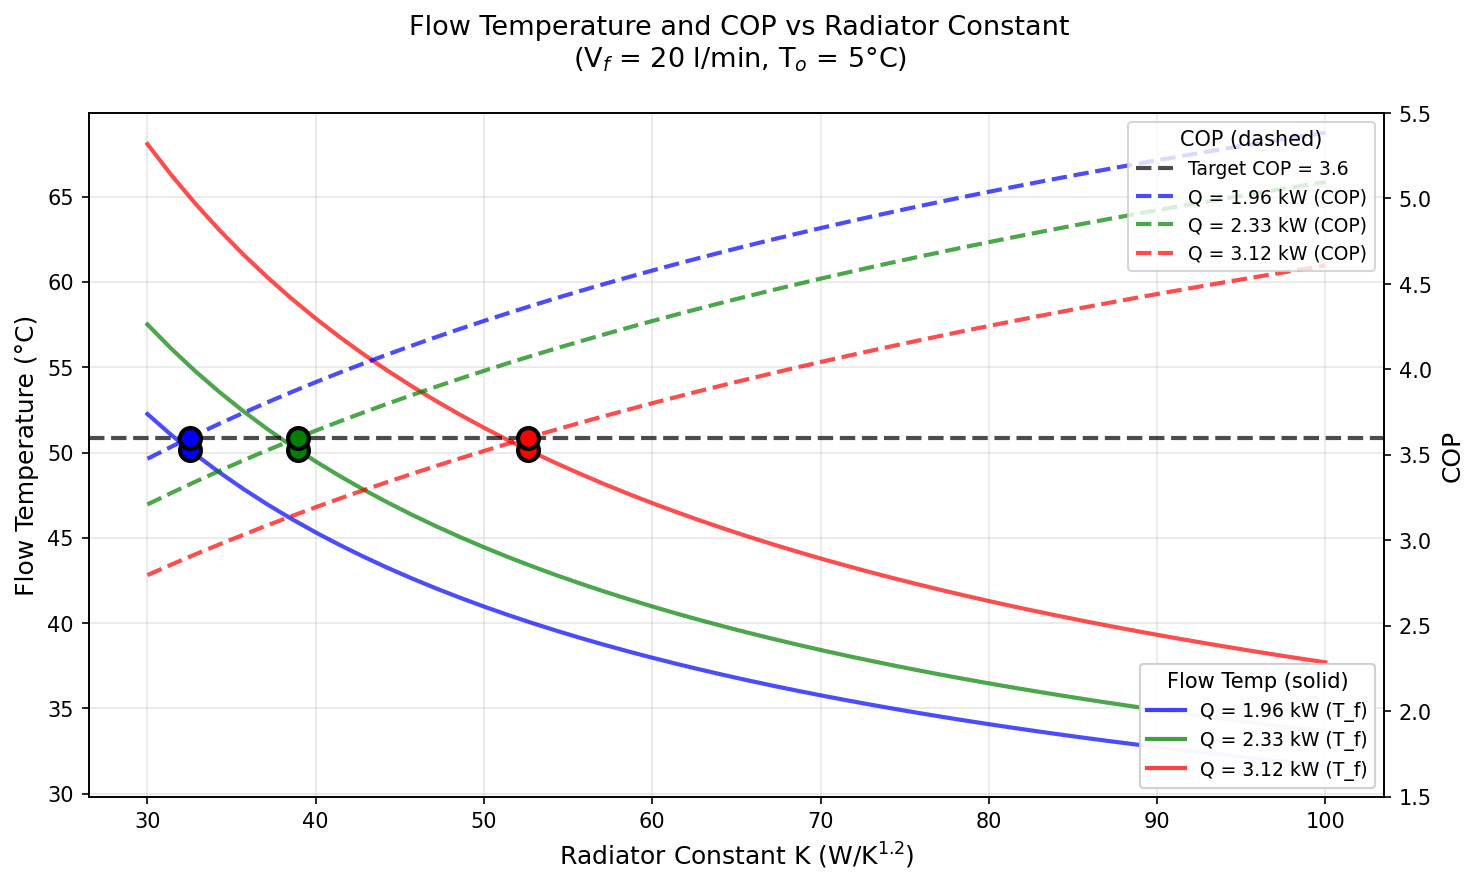
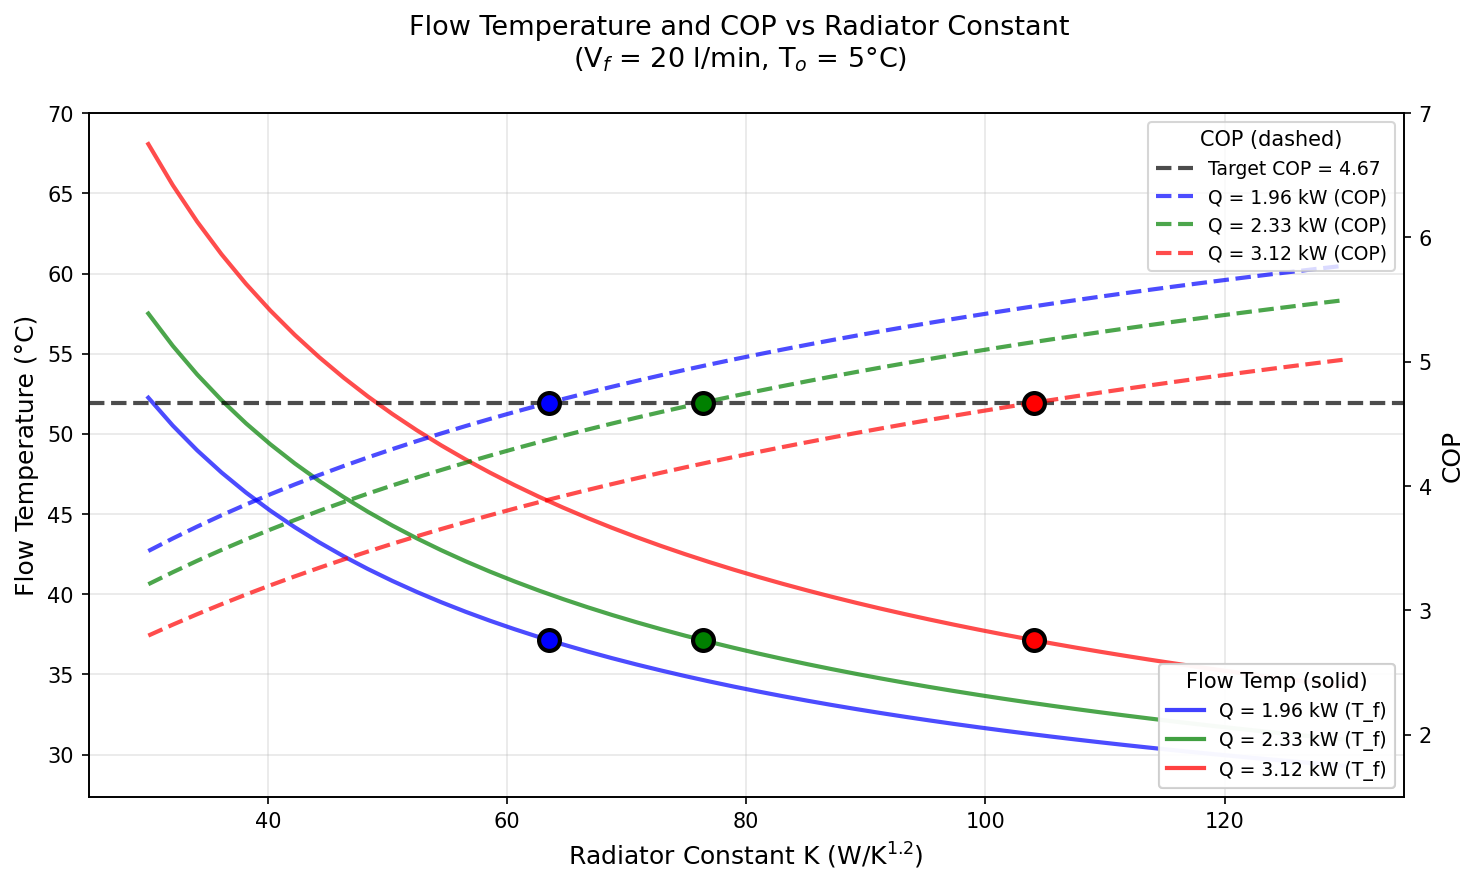
Updated numbers with larger spark gap

diff --git a/src/heat_pump_cost/radiator_analysis.py b/src/heat_pump_cost/radiator_analysis.py
@@ -183,9 +183,9 @@ def plot_performance_vs_power(k_rad=K_CURRENT, vf=VF_FIXED,
     color2 = 'tab:green'
     ax2.set_ylabel('COP', fontsize=12, color=color2)
     line2 = ax2.plot(powers_kw, cops, color=color2, linewidth=2, label='Heat Pump COP')
-    line3 = ax2.axhline(y=3.6, color='red', linestyle='--', linewidth=2, label='Break-even COP = 3.6')
+    line3 = ax2.axhline(y=4.67, color='red', linestyle='--', linewidth=2, label='Break-even COP = 4.67')
     ax2.tick_params(axis='y', labelcolor=color2)
-    ax2.set_ylim([1.5, 6.0])
+    ax2.set_ylim([1.5, 6.5])
     
     # Mark the three key power levels on COP axis
     for qk in key_powers:
@@ -242,11 +242,11 @@ def plot_performance_vs_k(power_levels=[1960, 2335, 3120], vf=VF_FIXED,
     ax2.xaxis.set_ticks_position('top')
     ax2.xaxis.set_label_position('top')
     ax2.set_ylabel('COP', fontsize=12, color='black')
-    ax2.set_ylim([1.5, 5.5])
+    ax2.set_ylim([1.5, 7.0])
     
     # Plot break-even line
-    ax2.axhline(y=3.6, color='black', linestyle='--', linewidth=2, 
-                label='Target COP = 3.6', alpha=0.7)
+    ax2.axhline(y=4.67, color='black', linestyle='--', linewidth=2, 
+                label='Target COP = 4.67', alpha=0.7)
     
     lines_temp = []
     lines_cop = []
@@ -281,21 +281,21 @@ def plot_performance_vs_k(power_levels=[1960, 2335, 3120], vf=VF_FIXED,
         lines_temp.extend(line_t)
         lines_cop.extend(line_c)
         
-        # Find intersection with COP = 3.6
+        # Find intersection with COP = 4.67
         valid_mask = ~np.isnan(cops)
         if np.any(valid_mask):
             valid_k = k_values[valid_mask]
             valid_cop = cops[valid_mask]
             
-            # Find where COP crosses 3.6
-            if np.any(valid_cop > 3.6):
-                # Interpolate to find exact K where COP = 3.6
-                idx = np.where(valid_cop > 3.6)[0][0]
+            # Find where COP crosses 4.67
+            if np.any(valid_cop > 4.67):
+                # Interpolate to find exact K where COP = 4.67
+                idx = np.where(valid_cop > 4.67)[0][0]
                 if idx > 0:
                     # Linear interpolation
                     k1, k2 = valid_k[idx-1], valid_k[idx]
                     cop1, cop2 = valid_cop[idx-1], valid_cop[idx]
-                    k_target = k1 + (3.6 - cop1) * (k2 - k1) / (cop2 - cop1)
+                    k_target = k1 + (4.67 - cop1) * (k2 - k1) / (cop2 - cop1)
                     k_required[q_target] = k_target
                     
                     # Mark on both plots
@@ -303,7 +303,7 @@ def plot_performance_vs_k(power_levels=[1960, 2335, 3120], vf=VF_FIXED,
                     if tf_target is not None:
                         ax1.plot(k_target, tf_target, 'o', color=colors[i], 
                                markersize=10, markeredgecolor='black', markeredgewidth=2)
-                        ax2.plot(k_target, 3.6, 'o', color=colors[i], 
+                        ax2.plot(k_target, 4.67, 'o', color=colors[i], 
                                markersize=10, markeredgecolor='black', markeredgewidth=2)
     
     # Title
@@ -335,13 +335,13 @@ def main():
     # Plot 2: Performance vs K for three power levels
     print("\n2. Generating performance vs K plot...")
     power_levels = [1960, 2335, 3120]  # W
-    fig2, _, k_required = plot_performance_vs_k(power_levels=power_levels, k_range=(30, 100))
+    fig2, _, k_required = plot_performance_vs_k(power_levels=power_levels, k_range=(30, 130))
     fig2.savefig('assets/performance_vs_k.png', dpi=150, bbox_inches='tight')
     print("   Saved: assets/performance_vs_k.png")
     
     # Print required K values
     print("\n" + "=" * 60)
-    print("REQUIRED RADIATOR CONSTANTS FOR COP = 3.6")
+    print("REQUIRED RADIATOR CONSTANTS FOR COP = 4.67")
     print("=" * 60)
     print(f"Current K: {K_CURRENT:.1f} W/K^{N_RAD}")
     print()
@@ -367,7 +367,7 @@ def main():
         print("=" * 60)
         print("RECOMMENDATION FOR CONCLUSION:")
         print("=" * 60)
-        print(f"To handle peak load of 3.12 kW at COP = 3.6:")
+        print(f"To handle peak load of 3.12 kW at COP = 4.67:")
         print(f"  Required K ≈ {k_peak:.0f} W/K^{N_RAD}")
         print(f"  This is approximately {factor_peak:.1f}× current capacity")
         print("=" * 60)

diff --git a/operations-static.md b/operations-static.md
@@ -1,12 +1,12 @@
 # Accepting the Need for Radiator Upgrades with a Heat Pump Installation 
 
-Motivated by the desire to transition away from heating with gas and reduce CO2 emissions I have been reading up on heat pumps and their installation. Various sources such as ["So You're Thinking About a Heat Pump: The UK Homeowner's Guide to Heat Pumps"](https://www.amazon.co.uk/Youre-Thinking-About-Heat-Pump/dp/B0GK7H511K/) or [The Ultimate Guide to Heat Pumps: Britain's best installers and experts tell you exactly what to watch for and what to ask](https://www.amazon.co.uk/Ultimate-Guide-Heat-Pumps-installers/dp/B0FNMNVC4Q) recommend radiator upgrades which do unfortunately increase installation costs. Initially, I hoped to avoid such an upgrade by using a heat pump in tandem with our log burner. In order to be able to make a more informed decision, however, I have carried out a simple analysis using steady-state thermal models. The outcome is nuanced: current radiators are sufficient for economically viable operation with supplemental wood heating, but upgrades become necessary to achieve complete fossil fuel independence. The physical relationship between radiator capacity, flow temperature, and heat pump efficiency creates a trade-off between capital investment and operational flexibility. Note, that this story focuses on order-of-magnitude estimates rather than precise scientific calculations.
+Motivated by the desire to transition away from heating with gas and reduce CO2 emissions I have been reading up on heat pumps and their installation. Various sources such as ["So You're Thinking About a Heat Pump: The UK Homeowner's Guide to Heat Pumps"](https://www.amazon.co.uk/Youre-Thinking-About-Heat-Pump/dp/B0GK7H511K/) or [The Ultimate Guide to Heat Pumps: Britain's best installers and experts tell you exactly what to watch for and what to ask](https://www.amazon.co.uk/Ultimate-Guide-Heat-Pumps-installers/dp/B0FNMNVC4Q) recommend radiator upgrades which do unfortunately increase installation costs. Initially, I hoped to avoid such an upgrade by using a heat pump in tandem with our log burner. In order to be able to make a more informed decision, however, I have carried out a simple analysis using steady-state thermal models. The outcome is perhaps unsurprising: at current energy prices, radiator upgrades appear to be necessary for economically viable heat pump operation in all scenarios, suggesting that the primary motivation for switching would be decarbonisation rather than cost saving. The physical relationship between radiator capacity, flow temperature, and heat pump efficiency creates a trade-off between capital investment and operational flexibility. Note, that this story focuses on order-of-magnitude estimates rather than precise scientific calculations.
 
 # Static Analysis and Heat Loss
 
 The starting point of this analysis is the state of our property after the efforts detailed in [Improving the Thermal Performance of UK 1930s Semi Detached Houses](https://peter-wurmsdobler.medium.com/improving-the-thermal-performance-of-uk-1930s-semi-detached-houses-6f64c6514565). Therein the heat transfer model derived from first principles estimates the specific heat loss, or Heat Transfer Coefficient (HTC), to be **244 W/K**. In order to work out a representative heat loss of the building, I chose a cold winter month in Cambridge, UK: the bleak January 2026 with an average outdoor temperature T_o = 5°C; the indoor temperature was kept on average at T_i = 19°C (approximately 20°C downstairs, about 18°C upstairs). The resulting temperature difference is ΔT = 14K and yields an heat loss of Q_l = 244 × 14 = **3.42 kW**.
 
-To validate this estimate, I looked up our energy consumption for January 2026: over that period electricity consumption was 263.75kWh (8.5kWh/day on average or 0.35kW continuous power), and gas utilisation was 1,924.91kWh (62.1 kWh/day on average or 2.59kW continuous power); the latter includes space heating and domestic hot water (DHC). It is assumed that energy for DHC stays mostly the same throughout the year and is responsible for the gas use in summer; for instance, in summer 2025 gas usage was about 12.5 kWh per day on average. As mentioned before, we have been using a log burner as supplemental heat source, providing approximately 3 kW output for 3 hours daily which contributes 9 kWh/day as heat (0.375 kW average power). 
+To validate this estimate, I looked up our energy consumption for January 2026: over that period electricity consumption was 263.75kWh (8.5kWh/day on average or 0.35kW continuous power), and gas utilisation was 1,924.91kWh (62.1 kWh/day on average or 2.59kW continuous power); the latter includes space heating and domestic hot water (DHC). It is assumed that energy for DHC stays mostly the same throughout the year and is responsible for the gas use in summer; for instance, in summer 2025 gas usage was about 12.5 kWh per day on average. As mentioned before, we have been using a log burner as supplemental heat source, providing approximately 3 kW output for 3 hours daily which contributes 9 kWh/day as heat (0.375 kW average power). Over the heating period we are using about 1m^3 of locally source hard wood for £150, which results in about £1/day.
 
 After subtracting the estimated DHC portion (12.5 kWh/day) from total gas consumption (62.1 kWh/day), the remaining 49.6 kWh/day of gas provides 47.12 kWh/day of actual heat to the radiators at 95% boiler efficiency(^1), i.e. 1.96 kW average power. Since most of electricity is eventually dissipated as heat, e.g. from appliances, it will add about 0.3 kW as a heating equivalent. All combined, the total average heating power is 2.635 kW (radiators 1.96 kW + log burner 0.375 kW + appliances 0.3 kW), which is 77% of the estimated heat loss from the thermal model (3.42 kW). This discrepancy is a bit more than I expected but also reasonable, considering unaccounted solar gain and internal heat gains from occupants, as well as the fact that not all rooms are maintained at 19°C continuously (heating off from 10pm to 5am, and entrance hall more like 15°C). 
 
@@ -53,23 +53,23 @@ The countour plot shows well that for a given radiator constant K and flow tempe
 Suppose we set the flow rate at 20l/min for the rest of analysis. Then the heat delivered becomes a function of the flow temperature, and so does the COP. It is perhaps revealing to show the required flow temperature T_f as a function of heat delivered P_r in our current setup (K = 35.9 W/K^1.2), then also show the achievable COP for that power, bearing in mind that the heat pump needs to run at about 5°C above the radiator flow temperature since heat needs to be transferred from the internal heat pump circuit to the radiator circuit. Three scenarios detailed below demonstrate the issue.
 
 ![Performance vs Power](assets/performance_vs_power.png)
-*Figure: For the current radiator constant K = 35.9 W/K^1.2, the flow temperature (left axis, blue) and the expected COP (right axis, green) plotted over heat power delivered. The red dashed line shows break-even COP = 3.6. The three marked points show: 1.96 kW with log burner (COP = 3.75, above break-even), 2.33 kW without log burner (COP = 3.48, slightly below), and 3.12 kW at peak condition (COP = 3.04, significantly below).*
+*Figure: For the current radiator constant K = 35.9 W/K^1.2, the flow temperature (left axis, blue) and the expected COP (right axis, green) plotted over heat power delivered. The red dashed line shows break-even COP = 4.67 (spark gap at January 2026 prices). The three marked points show: 1.96 kW with log burner (COP = 3.75, below break-even), 2.33 kW without log burner (COP = 3.48, further below), and 3.12 kW at peak condition (COP = 3.04, well below).*
 
 ### Scenario 1 Heat Pump With Log Burner
 
-If the gas boiler is replaced with a heat pump whilst continuing to use the log burner for supplemental heat, the heat balance remains with radiators delivering Q_r = 1.96 kW, log burner providing Q_b = 0.375 kW, appliances contributing Q_a = 0.3 kW, and total heat Q_l = 2.635 kW (including internal gains). High flow operation optimised for the heat pump at 20 l/min requires a flow temperature of 48°C with return temperature ~46°C (ΔT ≈ 1.4K), delivering 1.96 kW heating power. The estimated COP is 3.75 (at T_o=5°C, T_f=48°C), requiring electrical input of ~0.52 kW for daily electricity consumption of 12.5 kWh and daily cost of £3.13 at 25p/kWh. 
+If the gas boiler is replaced with a heat pump whilst continuing to use the log burner for supplemental heat, the heat balance remains with radiators delivering Q_r = 1.96 kW, log burner providing Q_b = 0.375 kW, appliances contributing Q_a = 0.3 kW, and total heat Q_l = 2.635 kW (including internal gains). High flow operation optimised for the heat pump at 20 l/min requires a flow temperature of 48°C with return temperature ~46°C (ΔT ≈ 1.4K), delivering 1.96 kW heating power. The estimated COP is 3.75 (at T_o=5°C, T_f=48°C), requiring electrical input of ~0.52 kW for daily electricity consumption of 12.5 kWh and daily electricity cost of £3.47 at 27.69p/kWh. Adding the log burner wood cost of £1.00/day gives a total daily cost of £4.47.
 
-With the log burner continuing to provide supplemental heat and appliances contributing internal gains, the heat pump operates well above the break-even threshold with comfortable 48°C flow temperature. Daily operating cost (£3.13) is 10% lower than gas (£3.47), making this scenario economically attractive whilst achieving fossil fuel independence. The COP of 3.75 is comfortably above the spark gap of 3.6.
+For comparison, gas for space heating (49.6 kWh/day at 5.93p/kWh) costs £2.94/day; including the log burner at £1.00/day brings the current total to £3.94/day. The heat pump scenario therefore costs £0.53/day more, approximately 13% more expensive than the current gas-plus-log-burner setup. The COP of 3.75 falls below the spark gap of 4.67, indicating that at January 2026 energy prices the heat pump with log burner does not offer an economic advantage over gas, even though it would achieve fossil fuel independence for space heating.
 
 ### Scenario 2 Heat Pump Without Log Burner
 
 Without the log burner, the heat pump must provide the full heating requirement. Based on the heat balance equation (Q_r + Q_b + Q_a = Q_l), removing the log burner means that the total heat delivered Q_l = 1.96 + 0.375 + 0.3 = 2.635 kW (actual measured, including appliance gains) must now come from radiators and appliances, with Q_r = 2.335 kW required from the heat pump. 
 
-Heat pump operation at maximum flow (20 l/min) requires a flow temperature of 52°C with return temperature ~51°C (ΔT ≈ 1.7K) to deliver 2.335 kW heating power. The estimated COP is 3.48 (at T_o=5°C, T_f=52°C), requiring electrical input of ~0.67 kW for daily electricity consumption of 16.1 kWh and daily cost of £4.03 at 25p/kWh. The operating cost is thus 16% higher than the gas+log burner configuration (£3.47/day), and the COP of 3.48 falls slightly below the break-even threshold of 3.6.
+Heat pump operation at maximum flow (20 l/min) requires a flow temperature of 52°C with return temperature ~51°C (ΔT ≈ 1.7K) to deliver 2.335 kW heating power. The estimated COP is 3.48 (at T_o=5°C, T_f=52°C), requiring electrical input of ~0.67 kW for daily electricity consumption of 16.1 kWh and daily cost of £4.46 at 27.69p/kWh. The operating cost is thus 13% higher than the current gas-plus-log-burner baseline (£3.94/day), and the COP of 3.48 falls below the break-even threshold of 4.67.
 
 ### Scenario 3 Heat Pump Without Log Burner at Peak Condition
 
-The constraint is exacerbated during peak conditions. For a conservative design representing the theoretical full load during the coldest conditions, appliances contribute Q_a = 0.3 kW, leaving the heat pump to deliver 3.42 - 0.3 = 3.12 kW. At maximum flow (20 l/min), this requires a flow temperature of ~61°C with COP dropping to 3.04 and daily cost of £6.16. This worst-case scenario confirms the need for radiator upgrades: attempting to deliver peak heating loads with insufficient radiator capacity forces operation at 61°C flow temperature, pushing the COP below the break-even threshold of 3.6.
+The constraint is exacerbated during peak conditions. For a conservative design representing the theoretical full load during the coldest conditions, appliances contribute Q_a = 0.3 kW, leaving the heat pump to deliver 3.42 - 0.3 = 3.12 kW. At maximum flow (20 l/min), this requires a flow temperature of ~61°C with COP dropping to 3.04 and daily cost of £6.82 at 27.69p/kWh (24.6 kWh/day). This worst-case scenario underlines the case for radiator upgrades: attempting to deliver peak heating loads with insufficient radiator capacity requires operation at 61°C flow temperature, pushing the COP well below the break-even threshold of 4.67.
 
 
 ## Adjusting the Radiator Constant
@@ -77,18 +77,18 @@ The constraint is exacerbated during peak conditions. For a conservative design 
 At this point it is clear that radiators need to be upgraded, i.e. the constant K needs to be higher, but to what extent? To this end, let's work out the flow temperature and the expected COP plotted over a variable radiator constant K, but for various heating power: the base load with log burner (1.96kW), one without log burner (2.335 kW) and the peak condition (3.12 kW). The intersection with the minimum COP to break even should reveal the required K for each case. (Note, heat pump temperature needs to be 5°C above the radiator flow temperature).
 
 ![Performance vs K](assets/performance_vs_k.png)
-*Figure: For three heating power levels, the flow temperature (left axis, solid lines) and the expected COP (right axis, dashed lines) plotted over radiator constant K. The circles mark where COP reaches 3.6 (break-even threshold). Current K = 35.9 W/K^1.2 is already sufficient for 1.96 kW (blue), requires modest upgrade to 38.5 for 2.33 kW (green), and needs upgrade to 52 for 3.12 kW (red).*
+*Figure: For three heating power levels, the flow temperature (left axis, solid lines) and the expected COP (right axis, dashed lines) plotted over radiator constant K. The circles mark where COP reaches 4.67 (break-even threshold at January 2026 prices). To achieve break-even, K must be upgraded to 64 for 1.96 kW (blue, 1.8× current), to 76 for 2.33 kW (green, 2.1× current), and to 104 for 3.12 kW (red, 2.9× current). All break-even points converge to the same flow temperature of 37.1°C.*
 
-The conclusion is nuanced. For the 1.96 kW scenario with log burner, the current radiators are sufficient with COP = 3.75 already above break-even. For the 2.335 kW scenario without log burner, a modest upgrade to K ≈ 38.5 W/K^1.2 (1.1× current) would raise COP from 3.48 to 3.6. For the 3.12 kW peak condition, a more substantial upgrade to K ≈ 52 W/K^1.2 (1.4× current) is required to achieve break-even COP. The upgrade transforms the economics and practical viability of heat pump operation without supplemental heating, enabling all scenarios to operate at or above the break-even threshold.
+The spark gap of 4.67 raises the break-even threshold substantially, requiring low flow temperatures (37.1°C) to achieve economic parity with gas. At January 2026 energy prices, none of the scenarios reach break-even with the current radiator constant. For the 1.96 kW scenario with log burner, an upgrade to K ≈ 64 W/K^1.2 (1.8× current) is required. For the 2.335 kW scenario without log burner, K ≈ 76 W/K^1.2 (2.1× current) is needed. For the 3.12 kW peak condition, K ≈ 104 W/K^1.2 (2.9× current) is required. Notably, all three break-even points converge to the same 37.1°C flow temperature, which is the physical constraint imposed by the spark gap: heat pump operation is only economic when the flow temperature is low enough to yield COP ≥ 4.67.
 
 # Conclusion
 
-Current radiators can support economically viable heat pump operation with supplemental heating (log burner), achieving COP = 3.75 and costs 10% below gas heating. However, without supplemental heating, performance falls below break-even for both average (COP = 3.48) and peak conditions (COP = 3.04). The recommended upgrade specification is: K value of 52 W/K^1.2 (approximately 1.4× current capacity), achieved by replacing existing radiators with larger Type 22 panels, adding additional radiators in key rooms, or upgrading to Type 33 (triple panel) in limited spaces. This would enable delivery of the 3.12 kW peak load at approximately 51°C flow temperature (accounting for 0.3 kW appliance contribution to reach theoretical 3.42 kW total), ensuring all scenarios operate at or above the break-even COP of 3.6. While not absolutely essential if retaining supplemental heating, radiator upgrades are strongly recommended to achieve economic independence from fossil fuels year-round.
+The recommended upgrade specification for economic break-even with fossil fuel independence is K ≈ 104 W/K^1.2 (approximately 2.9× current capacity, a substantial upgrade), achieved by replacing most radiators with larger Type 22 or Type 33 panels and adding radiators in key rooms. Even for the log-burner-supplemented scenario (1.96 kW), an upgrade to K ≈ 64 W/K^1.2 (1.8× current) is required to reach break-even. These upgrades are more demanding than a lower spark gap would imply, and reflect the current energy price environment where the motivation for switching would be decarbonisation rather than cost saving, unless a significant change in the electricity pricing (e.g. move a away from merit order based marginal pricing).
 
 
 # References
 
 1. **Boiler efficiency:** The Viessmann Vitodens 222-F condensing gas boiler achieves 95% efficiency under typical operating conditions.
 
-2. **Energy costs** as of January 2026: Natural gas at 7p/kWh and electricity assumed at 25p/kWh for heat pump analysis as an obtainable price depending on the tariff; a "spark gap" of 25/7 or 3.6.
+2. **Energy costs** as of January 2026 for British Gas standard tariff as the worst case: Natural gas at 5.93p/kWh and electricity assumed at 27.69p/kWh for heat pump analysis as an obtainable price depending on the tariff; a "spark gap" of 27.69/5.93 = 4.67.
 
